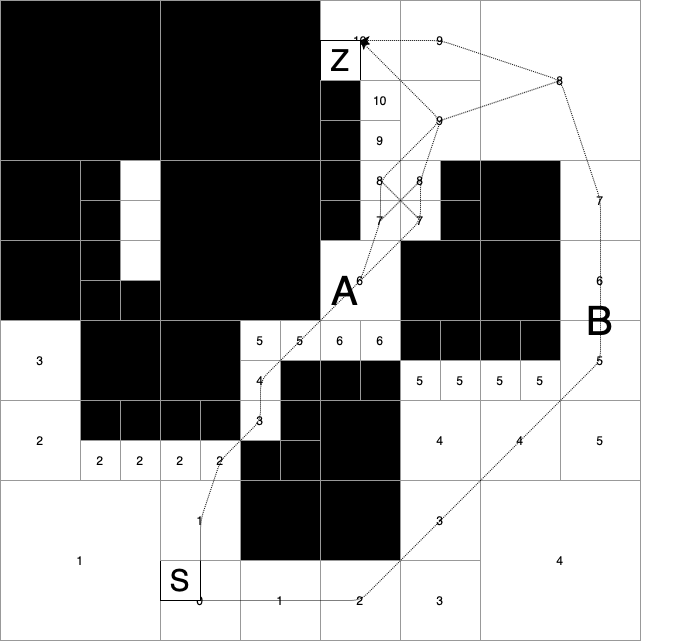
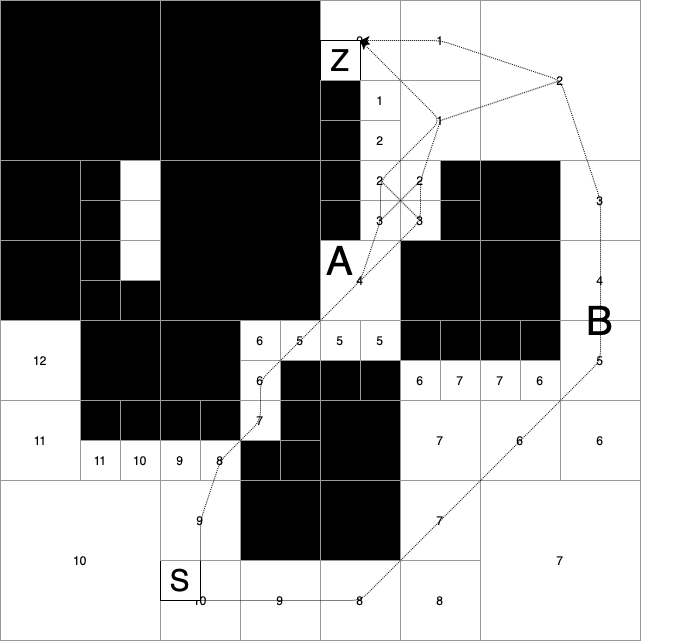
chenged wavefront algorithm to go from finish to start

Changed region(s): [[0.4526, 0.3744, 0.5129, 0.468]]

diff --git a/Lösungen/src/blatt06_gruppe11_zusatz/Aufgabe 6.5.md b/Lösungen/src/blatt06_gruppe11_zusatz/Aufgabe 6.5.md
@@ -2,11 +2,9 @@
 
 ## Teil A
 
-Da der Roboter selbst einen radius von 10 cm hat, muss jedes Objekt um 10 cm vegrößert werden (Bei den Rundungen geht es dann auch noch in diagonal freie Zellen (Abstand zu dieser Zelle ist 9.XXX)).
+Da der Roboter selbst einen Radius von 10 cm hat, muss jedes Objekt um 10 cm vegrößert werden (Auch bei den Rundungen geht es dann noch in diagonal freie Zellen (Abstand zu dieser Zelle ist 9.XXX)).
 
 ![](/Users/marcelhundorf/Uni/Master/3.%20Semester/robotik/Lösungen/src/blatt06_gruppe11_zusatz/Bilder/Teil_A.png)
-
-
 
 ## Teil B
 
@@ -14,18 +12,12 @@ Start und Ziel sind hier als Originalzelle dargestellt, sind aber intern ohne be
 
 ![](/Users/marcelhundorf/Uni/Master/3.%20Semester/robotik/Lösungen/src/blatt06_gruppe11_zusatz/Bilder/Teil_B.png)
 
-
-
 ## Teil C
 
 ![](/Users/marcelhundorf/Uni/Master/3.%20Semester/robotik/Lösungen/src/blatt06_gruppe11_zusatz/Bilder/Teil_C.png)
 
 Pfad A und ´B sollten beide befahrbar sein. Die Objekte sind dafür um 10 cm angepasst worden, sodass der Roboter als Punkt betrachtet werden kann. Auch wenn Pfad A und B nach dem Wavefront Algorithmus den selben Funktionswert haben, ist A in der Realität kürzer.
 
-
-
 ## Teil D
 
 Wenn dynamisch ein Objekt hinzugefügt wird ist es möglich eine Alternativroute zu berechnen ohne die komplett Tour neu zu berechnen. Eine Objekt stört den Pfad an einem frühsten Punkt $A$ der Tour und an einem spätesten Punkt $B$ der Tour.  Bis zum Punkt $A$ und ab dem Punkt $B$ ist die Tour also befahrbar. Es kann also einfach ein neuer kürzester weg zwischen $A$ und $B$ berechnet werden und zwischen $A$ und $B$ in die alte Route eingefügt werden.
-
-
